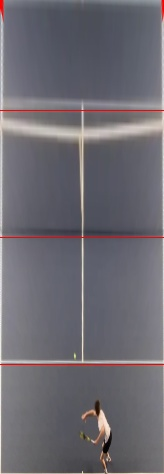
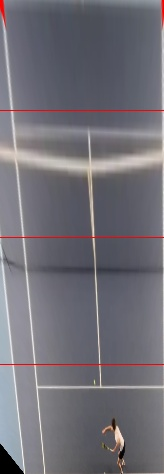
Tried to take a bigger part of the court (failed)

diff --git a/Court_Detection/court_detector8.py b/Court_Detection/court_detector8.py
@@ -1,0 +1,81 @@
+import cv2
+import numpy as np
+import imutils
+import argparse
+import time
+
+ap = argparse.ArgumentParser()
+ap.add_argument("-v", "--video",
+	help="path to the (optional) video file")
+args = vars(ap.parse_args())
+
+vs = cv2.VideoCapture(args["video"])
+
+time.sleep(2.0)
+
+while True:
+    frame = vs.read()
+    frame = frame[1] if args.get("video", False) else frame
+
+    if frame is None:
+        break
+
+    frame = cv2.imread("frameD.jpg")
+
+    frame = imutils.resize(frame, width=800, height=600)
+
+    topLeftX = 311
+    topLeftY = 106
+    topRightX = 456
+    topRightY = 105
+    bottomLeftX = 89
+    bottomLeftY = 331
+    bottomRightX = 628
+    bottomRightY = 326
+
+    #Puntos de Esquinas Alcaraz vs Fucsovics: 366, 196, 608, 198, 78, 378, 724, 398
+    #Puntos de Esquinas TennisBrothers: 311, 106, 456, 105, 89, 331, 628, 326
+
+    ###### IMPORTANTE: 20px = 1 METRO
+
+    # cv2.line(frame, (topLeftX,topLeft2), (topRight1,topRight2), (255,0,0), 2)
+    # cv2.line(frame, (topLeftX,topLeft2), (bottomLeft1,bottomLeft2), (255,0,0), 2)
+    # cv2.line(frame, (topRight1,topRight2), (bottomRight1,bottomRight2), (255,0,0), 2)
+    # cv2.line(frame, (bottomRight1,bottomRight2), (bottomLeft1,bottomLeft2), (255,0,0), 2)
+
+    cv2.circle(frame, (topLeftX, topLeftY), 2, (0, 0, 255), -1)
+    cv2.circle(frame, (topRightX, topRightY), 2, (0, 0, 255), -1)
+    cv2.circle(frame, (bottomLeftX, bottomLeftY), 2, (0, 0, 255), -1)
+    cv2.circle(frame, (bottomRightX, bottomRightY), 2, (0, 0, 255), -1)
+
+
+    pts1 = np.float32([[topLeftX, topLeftY],       [topRightX, topRightY],
+                    [bottomLeftX-200, bottomLeftY], [bottomRightX, bottomRightY]])
+    pts2 = np.float32([[0, 0], [164, 0], [0, 474], [164, 474]])
+
+    matrix = cv2.getPerspectiveTransform(pts1, pts2)
+    result = cv2.warpPerspective(frame, matrix, (164, 474))
+
+    pts12 = np.float32([[261, 56],       [496, 55],
+                    [39, 381], [678, 386]])
+    pts22 = np.float32([[20, 20], [184, 0], [0, 494], [184, 494]])
+
+    matrix2 = cv2.getPerspectiveTransform(pts1, pts22)
+    result2 = cv2.warpPerspective(frame, matrix2, (204, 514))
+
+    cv2.line(result, (0, 110), (165, 110), (0, 0, 255), 1)
+    cv2.line(result, (0, 364), (165, 364), (0, 0, 255), 1)
+    cv2.line(result, (0, 237), (165, 237), (0, 0, 255), 1)
+
+    salida = cv2.imwrite("RegresionCuadrática.jpg", result)
+
+    cv2.imshow("Image", frame)
+    cv2.imshow("Perspective transformation", result)
+    cv2.imshow("Perspective transformation Test", result2)
+    
+	# Terminar la ejecución si se presiona la "q"
+    key = cv2.waitKey(1) & 0xFF
+    if key == ord("q"):
+    	break
+vs.release()
+cv2.destroyAllWindows()
